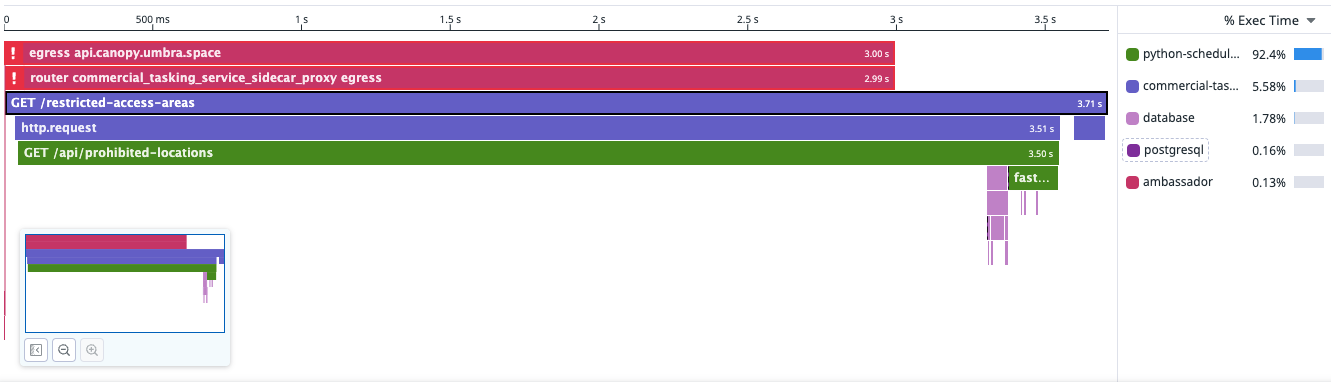
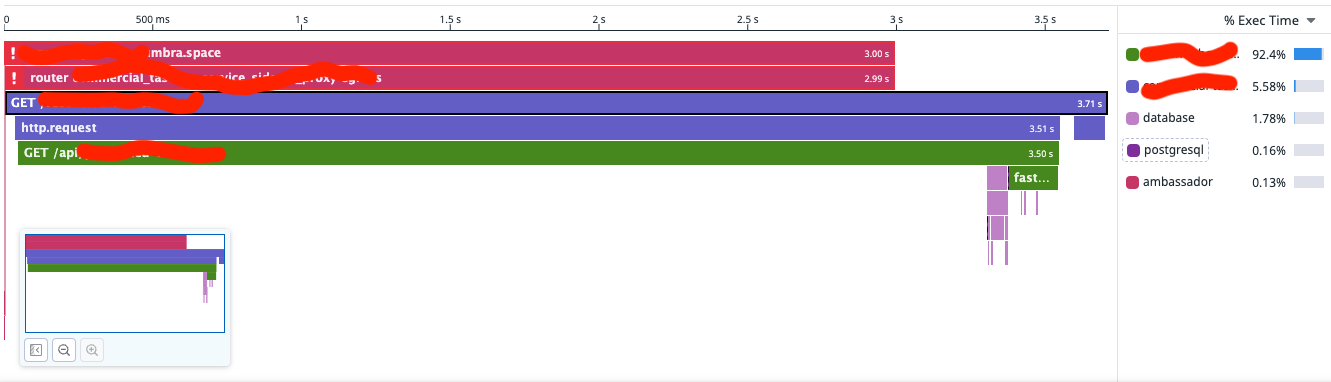
WIP

Changed region(s): [[0.0, 0.1152, 0.308, 0.3168], [0.8317, 0.1152, 0.9549, 0.2592], [0.0308, 0.3455, 0.1848, 0.4319]]

diff --git a/2025-01-03-rust-won't-save-you/rust-won't-save-you.md b/2025-01-03-rust-won't-save-you/rust-won't-save-you.md
@@ -210,16 +210,9 @@ magick convert -resize 480 "too-many-things.jpg" sixel:-
 
 * a lot of your latency isn't going to be because your code is slow (it's because _my_ code is slow)
 
-## Throughput problems
-
-```sixel
-magick convert -resize 1440 "./external-service-slow.png" sixel:-
-```
-
 <!--
-* this is a background task the `python-scheduling-service` runs, and this is a long invocation of it (it took over
-  13 minutes)
-* can Rust talk to KSAT faster?
+* not necessarily _my_ code, but you know, someone else's code -- if you're Doing Microservices™ a lot of the logic
+  you care about is going to happen somewhere else
 -->
 
 ## Throughput problems
